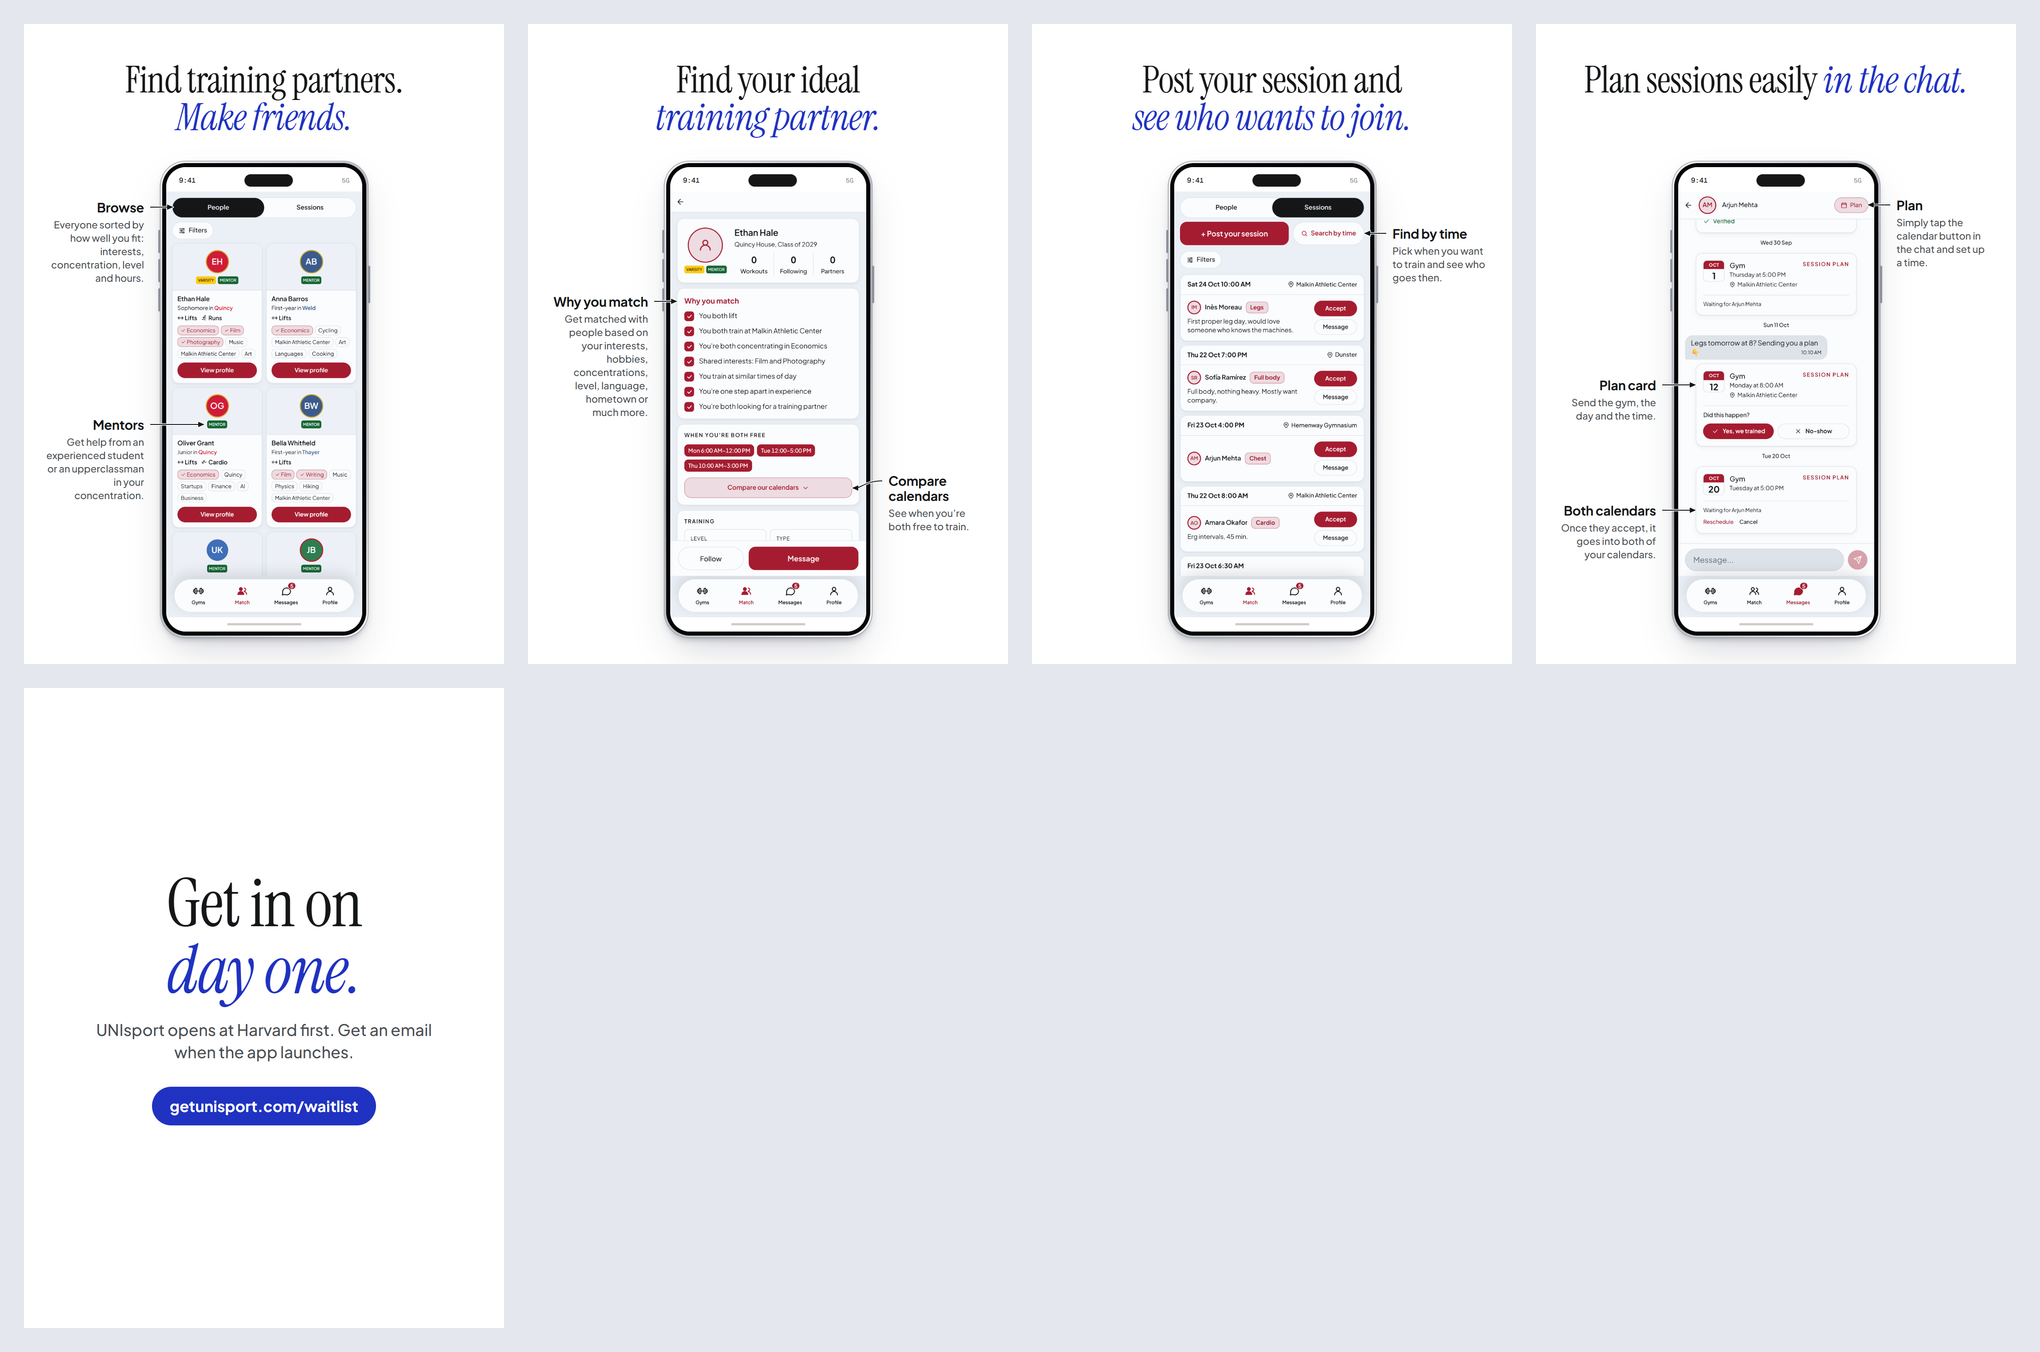
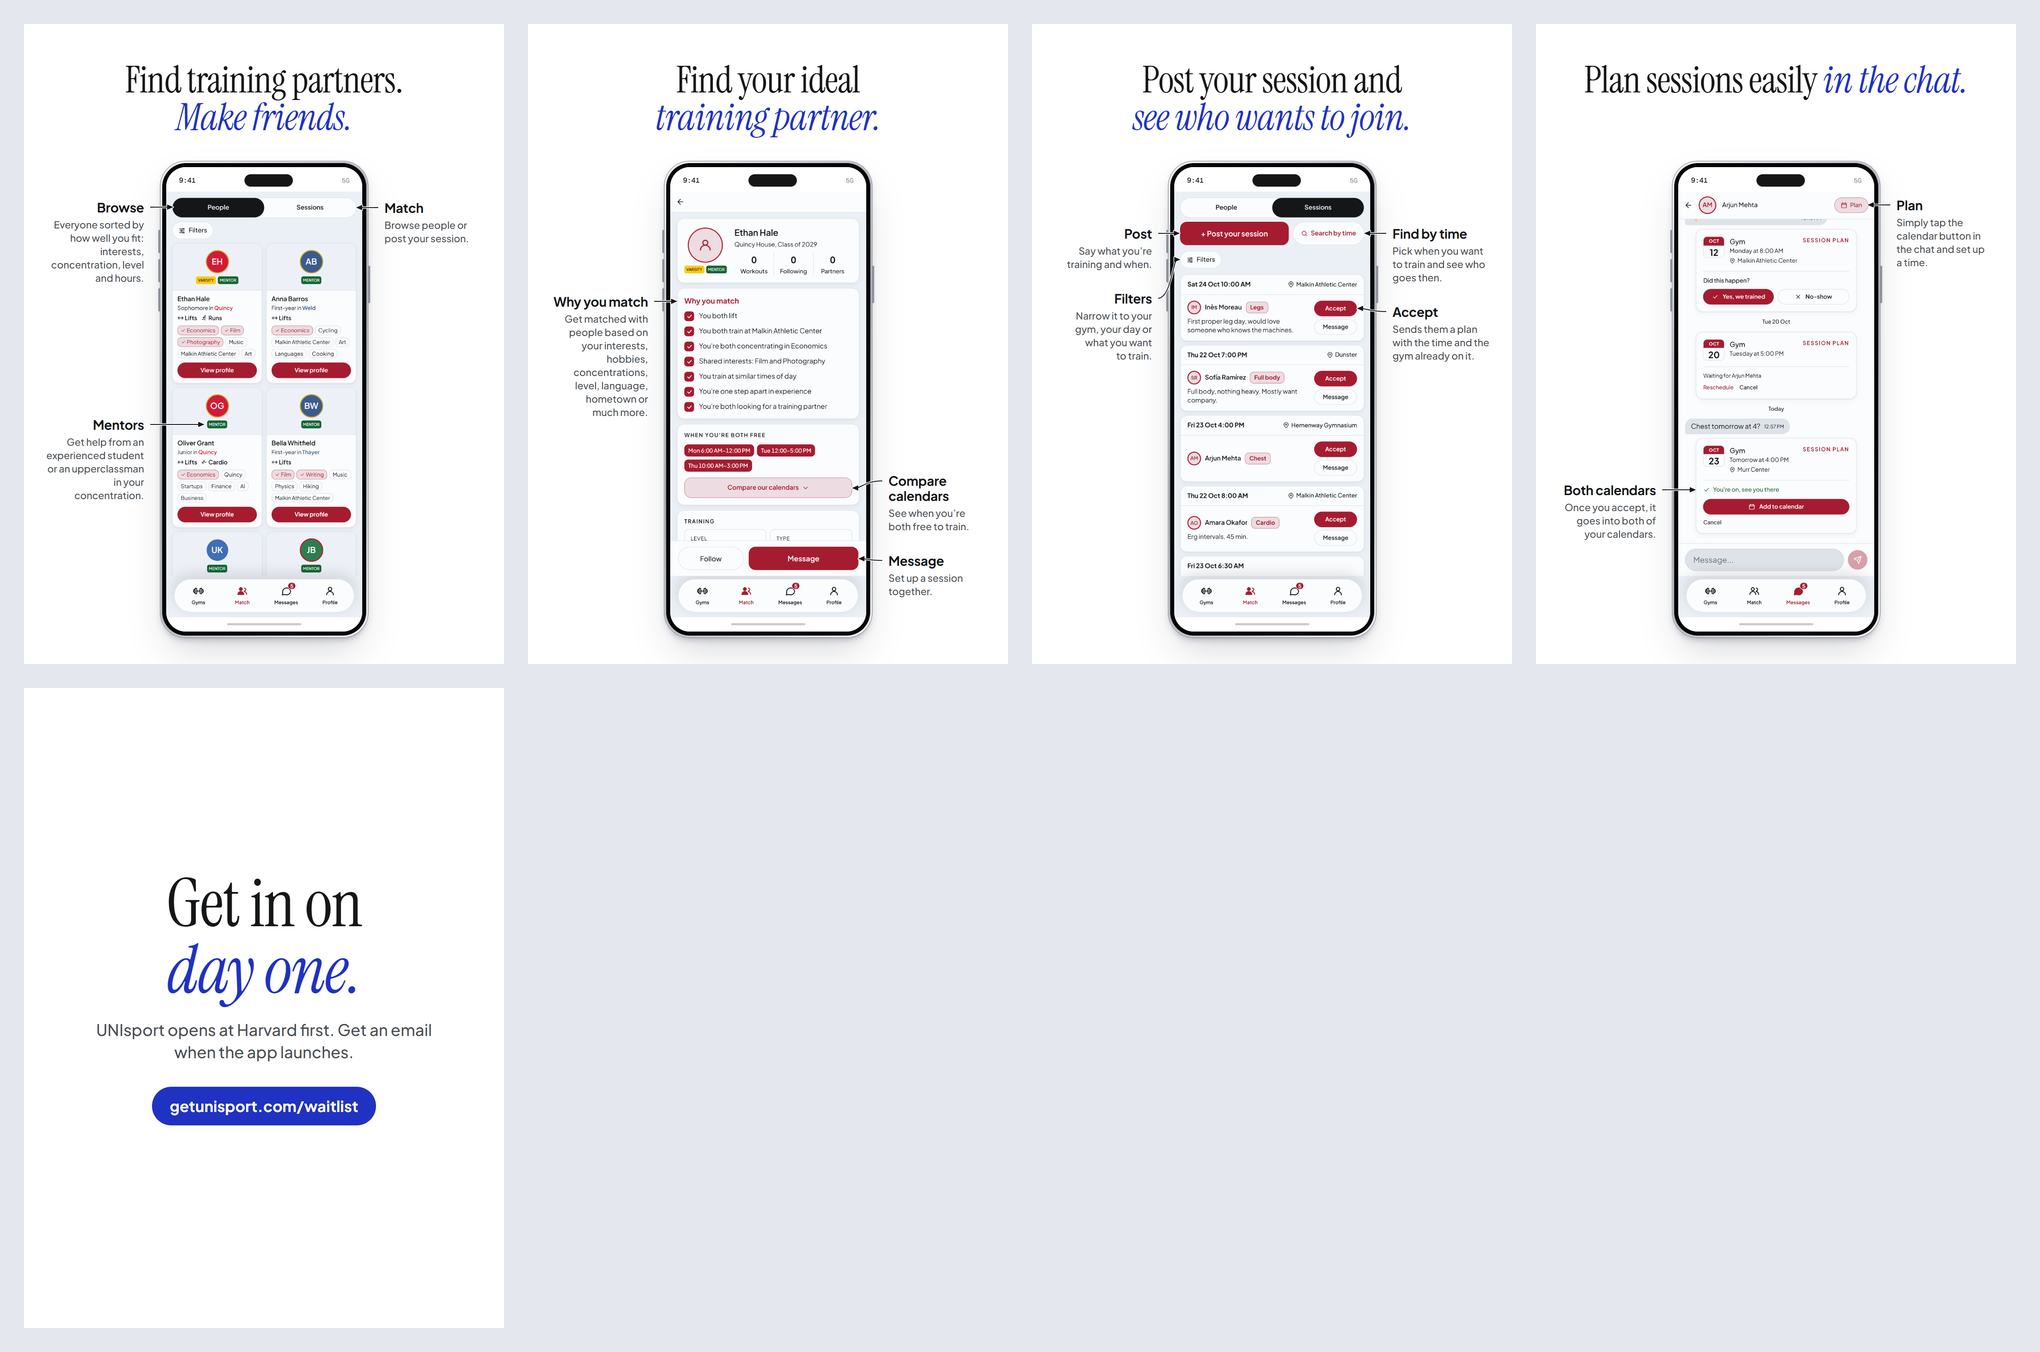
social: Match post labels, an accepted plan in the chat, Add exercise
Owner: "do match on top right ... browse people or post your session ...
then in second do that like message to set up something. then in post
your session ... put all the features you think are worth doing and for
the messages show something when you just accepted from other guy and say
it goes to both of your calendars and dont put the plan card text that is
easy. in second set on second image put there arrow to the add exercise".

Match post: Match top right on the People and Sessions switch ("Browse
people or post your session."); Message on the profile ("Set up a session
together."); Sessions now labels Post, Filters, Find by time and Accept.
The chat is reshot ending on Arjun's "Chest tomorrow at 4?" and his plan,
accepted: "You're on, see you there". Both calendars points at it, the
Plan card label is gone. The plan is added in the shoot's browser only,
nothing written. The launch carousel shares the chat slide, so it changed
too. Profile post slide 2: Add exercise ("Search the exercises or add your
own."). capture-launch.mjs now keeps the renewed session in the cookie
file. Rules in NO-SLOP.md 27.

diff --git a/NO-SLOP.md b/NO-SLOP.md
@@ -152,7 +152,9 @@ own words, the date. Newest at the bottom of each part.
 27. **Social images: white ground, the real current screen in light mode, a whole phone held
     straight, no logo.** Arrows are thin, black and solid (a full line, never dashed: tried
     for a few hours on 2026-10-22, then "actually do it full lines"), end in a small arrowhead whose
-    tip touches the spot, and never point at obvious buttons (Message, Follow). No small
+    tip touches the spot, and never point at what explains itself: Follow, or a plan card's
+    gym, day and time (2026-10-22: "dont put the plan card text that is easy"). Message gets
+    a label only on a profile, for what it leads to: setting up a session (2026-10-22). No small
     label above a slide's headline ("01 Match", "Browse", "Why you match"): the slide opens
     on its headline. (2026-09-22: "Don't put the logo there", "these are old ones";
     2026-09-28: "just make the phone straight … realistic"; 2026-10-22: "smaž to match
@@ -161,6 +163,11 @@ own words, the date. Newest at the bottom of each part.
     A part of a screen another slide already shows (the calendars on the profile) is a label
     with an arrow on that slide, never a slide of its own. (2026-10-22: "cut 3 and jsut
     describe calendar on second image with arrow".)
+    A feature slide labels every feature on it worth knowing, not just one (the Sessions slide:
+    Post, Filters, Find by time, Accept), and the screen shows what a label says: "goes into
+    both of your calendars" points at a plan just accepted, never one still waiting.
+    (2026-10-22: "put all the features you think are worth doing", "show something when you
+    just accepted from other guy and say it goes to both of your calendars".)
 28. **Video sound is soft**: instrumental songs only, no aggressive sound effects, none at all
     except the connecting moment. Real downloaded sounds, never synthesised. No speed changes.
     (2026-09-22: "dont want the sounds to be aggressive rather … smooth"; 2026-09-27: "skip all

diff --git a/SOCIAL.md b/SOCIAL.md
@@ -465,13 +465,16 @@ log workouts to earn points and memories. and then the leaderboards"):
 
 | Post | Slides | Where |
 |---|---|---|
-| Match, 5 | Match list (Browse, Mentors), a profile (Why you match, Compare calendars), Sessions (Find by time), the plan in the chat, the waitlist | `mockups/social/post-match/` |
-| Profile, 4 | Profile (Log, Calendar, Memories), the Log sheet (points, Add a photo), Leaderboards (Points, Competition), the waitlist | `mockups/social/post-profile/` |
+| Match, 5 | Match list (Match, Browse, Mentors), a profile (Why you match, Compare calendars, Message), Sessions (Post, Filters, Find by time, Accept), the chat ending on a plan from Arjun you just accepted (Plan, Both calendars), the waitlist | `mockups/social/post-match/` |
+| Profile, 4 | Profile (Log, Calendar, Memories), the Log sheet (Add exercise, points, Add a photo), Leaderboards (Points, Competition), the waitlist | `mockups/social/post-profile/` |
 
 Both come from `node scripts/social/launch-carousel.mjs post-match` / `post-profile`. Lines
 are the website's, or the app walk's captions (`lib/tour.ts`) where the site has none.
 There is no Memories screen: the demo account has no photos, so memories are on the Log
-sheet's photo tile and the Profile's Memories row.
+sheet's photo tile and the Profile's Memories row. Arjun's accepted plan at the end of the
+chat ("Chest tomorrow at 4?", Murr Center) is added in the shoot's browser only
+(`capture-launch.mjs`); nothing is written. The launch carousel's chat slide is the same
+slide, so it changed with it.
 
 **The posts:** 01 waitlist ("Get in on day one." + the link) · 02 the headline
 ("Your campus. Your gym. Your people.") · 03 Match · 04 Why you match · 05 Plan in the
